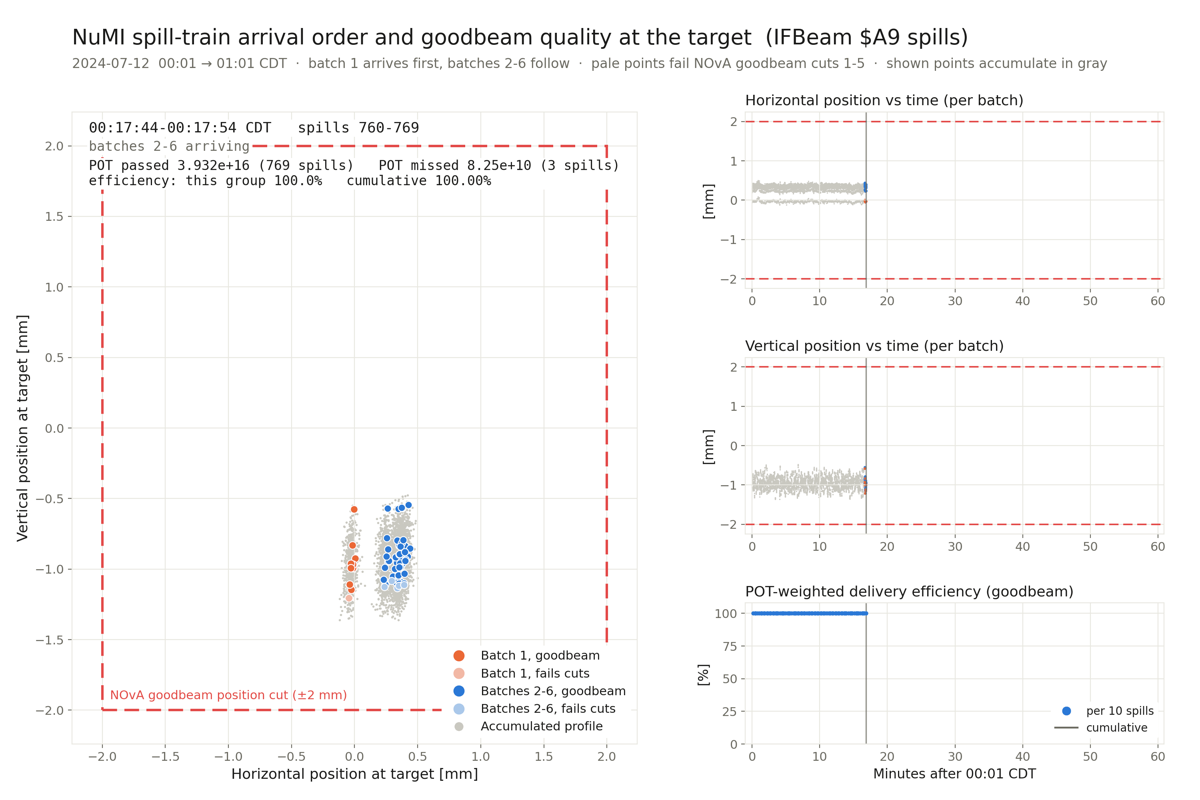
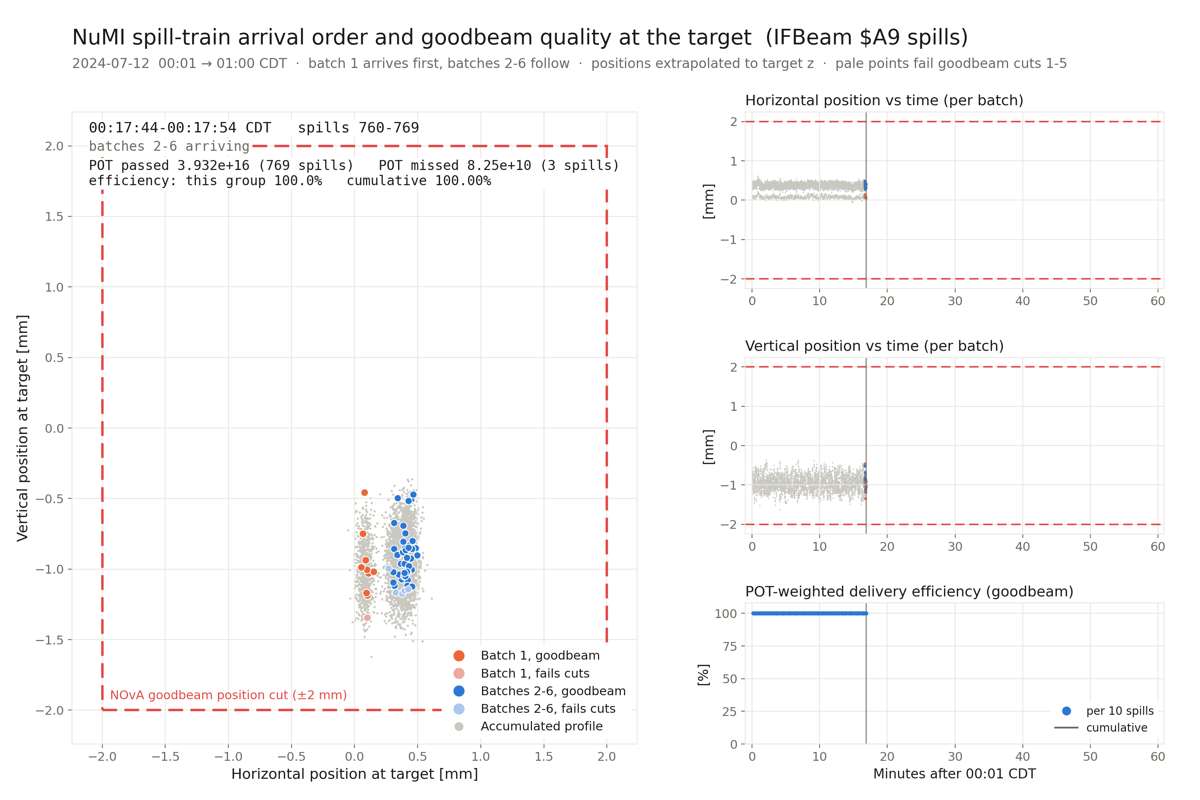
beam_quality: plot coordinates now match the goodbeam cut (target-z extrapolation)
All three visualizations previously plotted the raw TGT-station BPM
readbacks while labeling the axes "at target". Each batch's 121- and
TGT-station readings are now linearly extrapolated to the target z with
the same surveyed geometry and formula as the quality evaluation
(computeBpmPosition, ported from NOvA's IFDBSpillInfo
extrapolate_position/BpmProjection -- the machinery Gianfranco
Ingratta's original get_data.cpp made possible), so the plotted points
and the drawn +-2 mm goodbeam box share the coordinate the cut is
defined in. The plots differ from the cut quantity only in skipping the
intensity weighting (individual batches, not the per-spill mean).

Also: beam_gif.py gains the same stem argument and dynamic window
labels as beam_batches_gif.py; subtitles trimmed to fit; README and
code comments updated to describe the coordinate convention; preview
image regenerated from the new rendering.

Claude-Session: https://claude.ai/code/session_01BaDLGvcrbNC7hLFm5sd9tG

diff --git a/beam_quality/beam_gif.py b/beam_quality/beam_gif.py
@@ -1,13 +1,15 @@
 """Animated GIF of NuMI beam position at the target vs time.
 
 Reads the tidy CSV written by get_data.cpp and plots the INDIVIDUAL
-batch-by-batch target-BPM readings (E:HPTGT[], E:VPTGT[]; array indices
-1-6, zeros = bad readings excluded) — no averaging at all, so the
-per-batch "lobe" structure is visible. Each frame shows the 60 batch
-points of 10 consecutive spills. Axes are never clipped: they span the
-union of the data and the NOvA "goodbeam" position box cut
-(IFDBSpillInfo.fcl: posx and posy within +-2 mm at target), which is
-drawn on the plot. Rendered at 3000x2000.
+batch-by-batch BPM readings (array indices 1-6, zeros = bad readings
+excluded) — no averaging at all, so the per-batch "lobe" structure is
+visible. Each batch's 121- and TGT-station readings are linearly
+extrapolated to the target z (NOvA's BpmProjection geometry), so the
+plotted coordinate is the one the goodbeam position cut is defined in.
+Each frame shows the 60 batch points of 10 consecutive spills. Axes are
+never clipped: they span the union of the data and the NOvA "goodbeam"
+position box cut (IFDBSpillInfo.fcl: posx and posy within +-2 mm at
+target), which is drawn on the plot. Rendered at 3000x2000.
 
 The full catalogue of NOvA's goodbeam criteria, and exactly which of
 them this pipeline applies, illustrates, or omits, is documented in the
@@ -51,14 +53,28 @@ def batches(device, col):
     d = df[(df.device == device) & (df["index"] >= 1) & (df.value != 0.0)]
     return d.rename(columns={"time_s": "t", "value": col, "index": "idx"})[["t", "idx", col]]
 
-H = batches("E:HPTGT[]", "x")
-V = batches("E:VPTGT[]", "y")
-# pair H and V per batch index; same-spill rows can differ by a few ms
+# Surveyed BPM station z-positions [feet] and the NOvA linear
+# extrapolation of each batch to the target (z = 0): the same constants
+# and formula as computeBpmPosition() in get_data.cpp (ported from
+# NOvA's IFDBSpillInfo extrapolate_position/BpmProjection), so the
+# plotted coordinates match the ones the goodbeam position cut acts on.
+Z_HP121, Z_VP121 = -68.04458, -66.99283
+Z_HPTGT, Z_VPTGT = -31.25508, -30.16533
+FX = (0.0 - Z_HP121) / (Z_HPTGT - Z_HP121)
+FY = (0.0 - Z_VP121) / (Z_VPTGT - Z_VP121)
+
+HT = batches("E:HPTGT[]", "xt"); HU = batches("E:HP121[]", "xu")
+VT = batches("E:VPTGT[]", "yt"); VU = batches("E:VP121[]", "yu")
+# pair the four devices per batch index; same-spill rows differ by ~ms
 pieces = []
 for i in range(1, 7):
-    h = H[H.idx == i][["t", "x"]].sort_values("t")
-    v = V[V.idx == i][["t", "y"]].sort_values("t")
-    p = pd.merge_asof(h, v, on="t", tolerance=0.5, direction="nearest").dropna()
+    p = HT[HT.idx == i][["t", "xt"]].sort_values("t")
+    for d, col in ((HU, "xu"), (VT, "yt"), (VU, "yu")):
+        p = pd.merge_asof(p, d[d.idx == i][["t", col]].sort_values("t"),
+                          on="t", tolerance=0.5, direction="nearest")
+    p = p.dropna()
+    p["x"] = p.xu + (p.xt - p.xu) * FX   # extrapolated to target z
+    p["y"] = p.yu + (p.yt - p.yu) * FY
     pieces.append(p)
 P = pd.concat(pieces).sort_values("t", kind="stable").reset_index(drop=True)
 spill_times = np.sort(P["t"].unique())
@@ -95,11 +111,13 @@ for ax in (axM, axX, axY):
     for sp in ax.spines.values():
         sp.set_color(GRID)
 
+win0 = datetime.fromtimestamp(spill_times[0], CDT)
+win1 = datetime.fromtimestamp(spill_times[-1], CDT)
 fig.suptitle("NuMI beam position at target  (E:HPTGT / E:VPTGT, IFBeam $A9 spills)",
              fontsize=19, color=INK, x=0.06, ha="left", y=0.965)
 fig.text(0.06, 0.915,
-         "2024-07-12  00:01 → 01:01 CDT  ·  batch-by-batch readings, 10 spills (60 points) per frame  "
-         "·  red box: NOvA goodbeam position cut (|x|,|y| < 2 mm)",
+         f"{win0:%Y-%m-%d  %H:%M} → {win1:%H:%M} CDT  ·  batch positions extrapolated to target z, "
+         "10 spills per frame  ·  red box: NOvA goodbeam cut (|x|,|y| < 2 mm)",
          fontsize=12, color=INK2)
 
 # --- main panel: beam spot ---
@@ -126,7 +144,7 @@ for ax, c, lab in ((axX, x, "Horizontal"), (axY, y, "Vertical")):
     ax.axhline(-CUT, color=RED, lw=1.4, linestyle=(0, (6, 3)))
     ax.set_title(f"{lab} position vs time (per batch)", fontsize=13, color=INK, loc="left")
     ax.set_ylabel("[mm]", fontsize=12, color=INK)
-axY.set_xlabel("Minutes after 00:01 CDT", fontsize=12, color=INK)
+axY.set_xlabel(f"Minutes after {win0:%H:%M} CDT", fontsize=12, color=INK)
 progX = axX.scatter([], [], s=1.5, color=BLUE, linewidths=0)
 progY = axY.scatter([], [], s=1.5, color=BLUE, linewidths=0)
 curX = axX.axvline(0, color=INK2, lw=1.2, alpha=0.7)

diff --git a/beam_quality/beam_slosh.C b/beam_quality/beam_slosh.C
@@ -3,10 +3,13 @@
 //
 //  Reads the "beam" TTree written by get_data.cpp and renders an
 //  animated GIF: each frame is a TH2D filled with the individual
-//  batch-by-batch target-BPM readings (E:HPTGT/E:VPTGT array elements
-//  1-6; element 0 is the auto-tune average and zeros are bad readings,
-//  both excluded) of 10 consecutive spills, drawn with COLZ. The blob's
-//  frame-to-frame motion shows the beam position "sloshing".
+//  batch-by-batch beam positions (BPM array elements 1-6; element 0 is
+//  the auto-tune average and zeros are bad readings, both excluded) of
+//  10 consecutive spills, drawn with COLZ. Each batch's 121- and
+//  TGT-station readings are linearly extrapolated to the target z
+//  (NOvA BpmProjection geometry), so the plotted coordinate is the one
+//  the goodbeam position cut is defined in. The blob's frame-to-frame
+//  motion shows the beam position "sloshing".
 //
 //  The full catalogue of NOvA's goodbeam criteria, and exactly which
 //  of them this pipeline applies, illustrates, or omits, is documented
@@ -45,15 +48,30 @@ void beam_slosh(const std::string& inFile =
     TTreeReaderValue<double> time(reader, "time");
     TTreeReaderValue<std::vector<double>> hp(reader, "HPTGT");
     TTreeReaderValue<std::vector<double>> vp(reader, "VPTGT");
+    TTreeReaderValue<std::vector<double>> hu(reader, "HP121");
+    TTreeReaderValue<std::vector<double>> vu(reader, "VP121");
+
+    // Surveyed BPM station z-positions [feet] and the NOvA linear
+    // extrapolation of each batch to the target (z = 0): the same
+    // constants and formula as computeBpmPosition() in get_data.cpp
+    // (ported from NOvA's IFDBSpillInfo extrapolate_position /
+    // BpmProjection), so the plotted coordinate matches the one the
+    // goodbeam position cut acts on.
+    constexpr double zHp121 = -68.04458, zVp121 = -66.99283,
+                     zHptgt = -31.25508, zVptgt = -30.16533;
+    constexpr double fx = (0.0 - zHp121) / (zHptgt - zHp121);
+    constexpr double fy = (0.0 - zVp121) / (zVptgt - zVp121);
 
     struct Spill { double t; std::vector<std::pair<double,double>> pts; };
     std::vector<Spill> spills;
     while (reader.Next()) {
-        size_t n = std::min(hp->size(), vp->size());
+        size_t n = std::min({hp->size(), vp->size(), hu->size(), vu->size()});
         Spill s{*time, {}};
         for (size_t j = 1; j < n; ++j)              // skip auto-tune element 0
-            if ((*hp)[j] != 0.0 && (*vp)[j] != 0.0) // zeros = bad batch readings
-                s.pts.emplace_back((*hp)[j], (*vp)[j]);
+            if ((*hp)[j] != 0.0 && (*vp)[j] != 0.0 &&   // zeros = bad readings
+                (*hu)[j] != 0.0 && (*vu)[j] != 0.0)
+                s.pts.emplace_back((*hu)[j] + ((*hp)[j] - (*hu)[j]) * fx,
+                                   (*vu)[j] + ((*vp)[j] - (*vu)[j]) * fy);
         if (!s.pts.empty()) spills.push_back(std::move(s));
     }
     int nFrames = static_cast<int>(spills.size()) / spillsPerFrame;
@@ -137,7 +155,7 @@ void beam_slosh(const std::string& inFile =
 
         title.SetTextSize(0.033);
         title.DrawLatex(0.09, 0.955,
-            "NuMI beam position at target  (E:HPTGT / E:VPTGT, batch-by-batch, 10 spills per frame)");
+            "NuMI beam position at target  (per-batch, extrapolated to target z, 10 spills/frame)");
         // spill epoch (UTC) -> CDT = UTC-5
         std::time_t tt = static_cast<std::time_t>(t0) - 5 * 3600;
         char buf[64]; std::strftime(buf, sizeof buf, "%Y-%m-%d %H:%M:%S CDT", std::gmtime(&tt));

diff --git a/beam_quality/beam_batches_gif.py b/beam_quality/beam_batches_gif.py
@@ -20,7 +20,11 @@ as missed spills), and a third right-hand panel tracks the POT-weighted
 beam-delivery efficiency: one dot per 10-spill group plus the
 cumulative running efficiency. Axes are never clipped: they span the
 union of the data and the NOvA goodbeam position box (|x|,|y| < 2 mm),
-drawn in red. Rendered at 3000x2000.
+drawn in red. All plotted positions are the per-batch 121- and
+TGT-station BPM readings linearly extrapolated to the target z (NOvA's
+BpmProjection geometry) — the same coordinate the goodbeam position cut
+is defined in, so the box and the points are directly comparable.
+Rendered at 3000x2000.
 
 The full catalogue of NOvA's goodbeam criteria, and exactly which of
 them this pipeline applies, illustrates, or omits, is documented in the
@@ -71,13 +75,27 @@ def batches(device, col):
     d = df[(df.device == device) & (df["index"] >= 1) & (df.value != 0.0)]
     return d.rename(columns={"time_s": "t", "value": col, "index": "idx"})[["t", "idx", col]]
 
-H = batches("E:HPTGT[]", "x")
-V = batches("E:VPTGT[]", "y")
+# Surveyed BPM station z-positions [feet] and the NOvA linear
+# extrapolation of each batch to the target (z = 0): the same constants
+# and formula as computeBpmPosition() in get_data.cpp (ported from
+# NOvA's IFDBSpillInfo extrapolate_position/BpmProjection), so the
+# plotted coordinates match the ones the goodbeam position cut acts on.
+Z_HP121, Z_VP121 = -68.04458, -66.99283
+Z_HPTGT, Z_VPTGT = -31.25508, -30.16533
+FX = (0.0 - Z_HP121) / (Z_HPTGT - Z_HP121)
+FY = (0.0 - Z_VP121) / (Z_VPTGT - Z_VP121)
+
+HT = batches("E:HPTGT[]", "xt"); HU = batches("E:HP121[]", "xu")
+VT = batches("E:VPTGT[]", "yt"); VU = batches("E:VP121[]", "yu")
 pieces = []
 for i in range(1, 7):
-    h = H[H.idx == i][["t", "x"]].sort_values("t")
-    v = V[V.idx == i][["t", "y"]].sort_values("t")
-    p = pd.merge_asof(h, v, on="t", tolerance=0.5, direction="nearest").dropna()
+    p = HT[HT.idx == i][["t", "xt"]].sort_values("t")
+    for d, col in ((HU, "xu"), (VT, "yt"), (VU, "yu")):
+        p = pd.merge_asof(p, d[d.idx == i][["t", col]].sort_values("t"),
+                          on="t", tolerance=0.5, direction="nearest")
+    p = p.dropna()
+    p["x"] = p.xu + (p.xt - p.xu) * FX   # extrapolated to target z
+    p["y"] = p.yu + (p.yt - p.yu) * FY
     p["idx"] = i
     pieces.append(p)
 P = pd.concat(pieces).sort_values("t", kind="stable").reset_index(drop=True)
@@ -152,7 +170,7 @@ fig.suptitle("NuMI spill-train arrival order and goodbeam quality at the target 
              fontsize=19, color=INK, x=0.06, ha="left", y=0.965)
 fig.text(0.06, 0.915,
          f"{win0:%Y-%m-%d  %H:%M} → {win1:%H:%M} CDT  ·  batch 1 arrives first, batches 2-6 follow  ·  "
-         "pale points fail NOvA goodbeam cuts 1-5  ·  shown points accumulate in gray",
+         "positions extrapolated to target z  ·  pale points fail goodbeam cuts 1-5",
          fontsize=12, color=INK2)
 
 # --- main panel ---

diff --git a/beam_quality/get_data.cpp b/beam_quality/get_data.cpp
@@ -139,9 +139,13 @@
 //      convention);
 //    - horizontal/vertical readings paired within +-0.5 s;
 //  and they DRAW the +-2 mm NOvA position box (cuts 3-4) on the
-//  figures for illustration only — it is not applied as a filter, and
-//  it is drawn against the raw TGT-station readback rather than
-//  NOvA's extrapolated-to-target position (see the NOTE under cut 4).
+//  figures for illustration only — it is not applied as a filter. The
+//  plotted per-batch positions are the 121- and TGT-station readings
+//  linearly extrapolated to the target z with the same geometry as
+//  computeBpmPosition() below (NOvA's BpmProjection), so the box and
+//  the points share the coordinate the cut is defined in; the plots
+//  differ from the cut quantity only in skipping the intensity
+//  weighting (they show individual batches, not the per-spill mean).
 // =====================================================================
 
 #include <curl/curl.h>

diff --git a/beam_quality/README.md b/beam_quality/README.md
@@ -19,6 +19,14 @@ public — no Kerberos, VPN, or Fermilab credentials needed.
 | `beam_gif.py` | Animated GIF: individual batch positions, 10 spills/frame, with the NOvA position box cut drawn |
 | `beam_batches_gif.py` | Animated GIF: batch-1 vs batches-2-6 arrival order ("sloshing"), goodbeam pass/fail coloring, POT passed/missed counters, per-10-spill and cumulative delivery efficiency |
 | `beam_slosh.C` | ROOT macro: animated COLZ heatmap of the batch-by-batch beam position |
+
+All three visualizations plot each batch's 121- and TGT-station BPM
+readings **linearly extrapolated to the target z** using the same
+surveyed geometry and formula as the quality evaluation (NOvA's
+`BpmProjection`/`extrapolate_position`), so the plotted points and the
+drawn ±2 mm goodbeam box share the coordinate the cut is defined in.
+The plots differ from the cut quantity only in skipping the intensity
+weighting: they show individual batches, not the per-spill weighted mean.
 | `bad_spills_report.py` | Human-readable report of every spill failing goodbeam, with derived reasons |
 | `docs/` | Example bad-spill reports and a preview frame |
 
